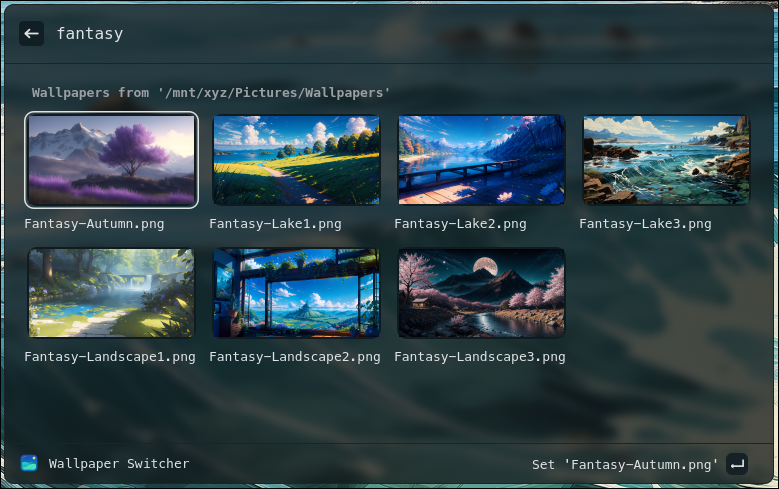
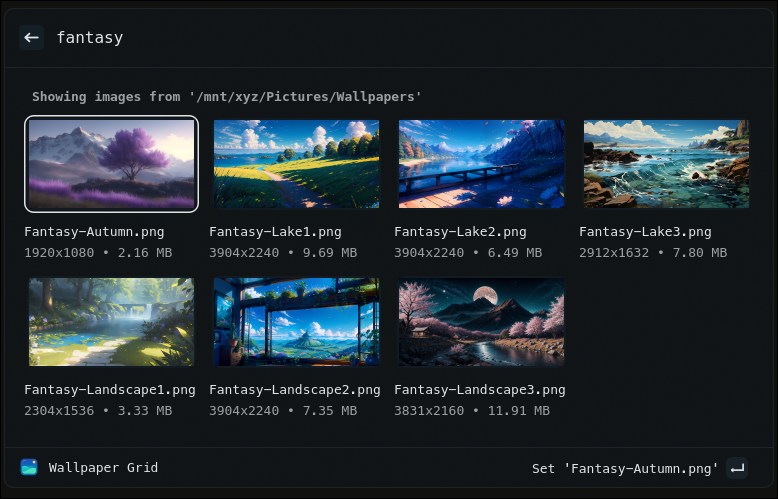
added more settings, image details

diff --git a/src/wpgrid.tsx b/src/wpgrid.tsx
@@ -12,8 +12,14 @@ import { setWallpaper, toggleVicinae, callColorGen } from "./utils/hyprland";
 
 export default function DisplayGrid() {
   const path: string = getPreferenceValues().wallpaperPath;
-  const swwwTransition: string = getPreferenceValues().transitionType;
-  const colorGen: string = getPreferenceValues().colorGenTool;
+  const swwwTransition: string = getPreferenceValues().transitionType || "fade";
+  const colorGen: string = getPreferenceValues().colorGenTool || "none";
+  const gridRows = parseInt(getPreferenceValues().gridRows) || 4;
+  type Preferences = {
+    toggleVicinaeSetting: boolean;
+    showImageDetails: boolean;
+  };
+  const preferences = getPreferenceValues<Preferences>();
 
   const [wallpapersPath, setWallpapersPath] = useState<string | null>(null);
   const [wallpapers, setWallpapers] = useState<Image[]>([]);
@@ -37,7 +43,7 @@ export default function DisplayGrid() {
   return (
     <Grid
       searchBarPlaceholder="Filter wallpapers..."
-      columns={4}
+      columns={gridRows}
       aspectRatio="16/9"
       fit={Grid.Fit.Fill}
       isLoading={false}
@@ -50,11 +56,14 @@ export default function DisplayGrid() {
         }
       >
         {isLoading
-          ? Array.from({ length: 12 }).map((_, i) => (
+          ? Array.from({ length: gridRows * 3 }).map((_, i) => (
               <Grid.Item
                 key={i}
                 content={{ source: "loading.png" }}
                 title="Loading..."
+                subtitle={
+                  preferences.showImageDetails ? `420x245 • 3.1 KB` : undefined
+                }
               />
             ))
           : wallpapers.map((w) => (
@@ -62,13 +71,22 @@ export default function DisplayGrid() {
                 key={w.fullpath}
                 content={{ source: w.fullpath }}
                 title={w.name}
+                {...(preferences.showImageDetails && {
+                  subtitle: `${w.width}x${w.height} • ${w.size.toFixed(2)} MB`,
+                  accessories: [
+                    { text: `${w.width}x${w.height}` },
+                    { text: `${w.size.toFixed(2)} MB` },
+                  ],
+                })}
                 actions={
                   <ActionPanel>
                     <Action
                       title={`Set '${w.name}'`}
                       onAction={() => {
                         setWallpaper(w.fullpath, swwwTransition);
-                        toggleVicinae();
+                        if (preferences.toggleVicinaeSetting) {
+                          toggleVicinae();
+                        }
                         if (colorGen !== "none") {
                           callColorGen(w.fullpath, colorGen);
                         }

diff --git a/src/wprandom.tsx b/src/wprandom.tsx
@@ -4,8 +4,12 @@ import { setWallpaper, toggleVicinae, callColorGen } from "./utils/hyprland";
 
 export default async function RandomWallpaper() {
   const path: string = getPreferenceValues().wallpaperPath;
-  const swwwTransition: string = getPreferenceValues().transitionType;
-  const colorGen: string = getPreferenceValues().colorGenTool;
+  const swwwTransition: string = getPreferenceValues().transitionType || "fade";
+  const colorGen: string = getPreferenceValues().colorGenTool || "none";
+  type Preferences = {
+    toggleVicinaeSetting: boolean;
+  };
+  const preferences = getPreferenceValues<Preferences>();
 
   try {
     await showToast({
@@ -29,7 +33,9 @@ export default async function RandomWallpaper() {
     const selectedWallpaper = wallpapers[randomIndex];
 
     setWallpaper(selectedWallpaper.fullpath, swwwTransition);
-    toggleVicinae();
+    if (preferences.toggleVicinaeSetting) {
+      toggleVicinae();
+    }
     if (colorGen !== "none") {
       callColorGen(selectedWallpaper.fullpath, colorGen);
     }

diff --git a/README.md b/README.md
@@ -30,6 +30,20 @@ Dont feel like picking a wallpaper? Just run Random Wallpaper!
 - `Wallpaper grid` — Open the wallpaper browser and set a wallpaper
 - `Random Wallpaper` — Randomly apply a wallpaper
 
+## Extension Preferences
+
+ - Wallpaper Path
+ - SWWW Transition
+   - Default = `fade`
+ - Color Generator
+   - Default = `none`
+ - Grid Rows
+   - Default = `4`
+ - Toggle Vicinae on Selection
+   - Default = `true`
+ - Show Image Details
+   - Default = `true`
+
 ## Quick start (development)
 
 ```bash
@@ -101,10 +115,6 @@ $mainMod = SUPER
 bind = $mainMod CTRL, W, exec, vicinae vicinae://extensions/sovereign/swww-switcher/wpgrid
 bind = $mainMod SHIFT, W, exec, vicinae vicinae://extensions/sovereign/swww-switcher/wprandom
 ```
-
-## Future Features?
-
-- Menu to preview image, maybe with metadata too
 
 ## License
 
